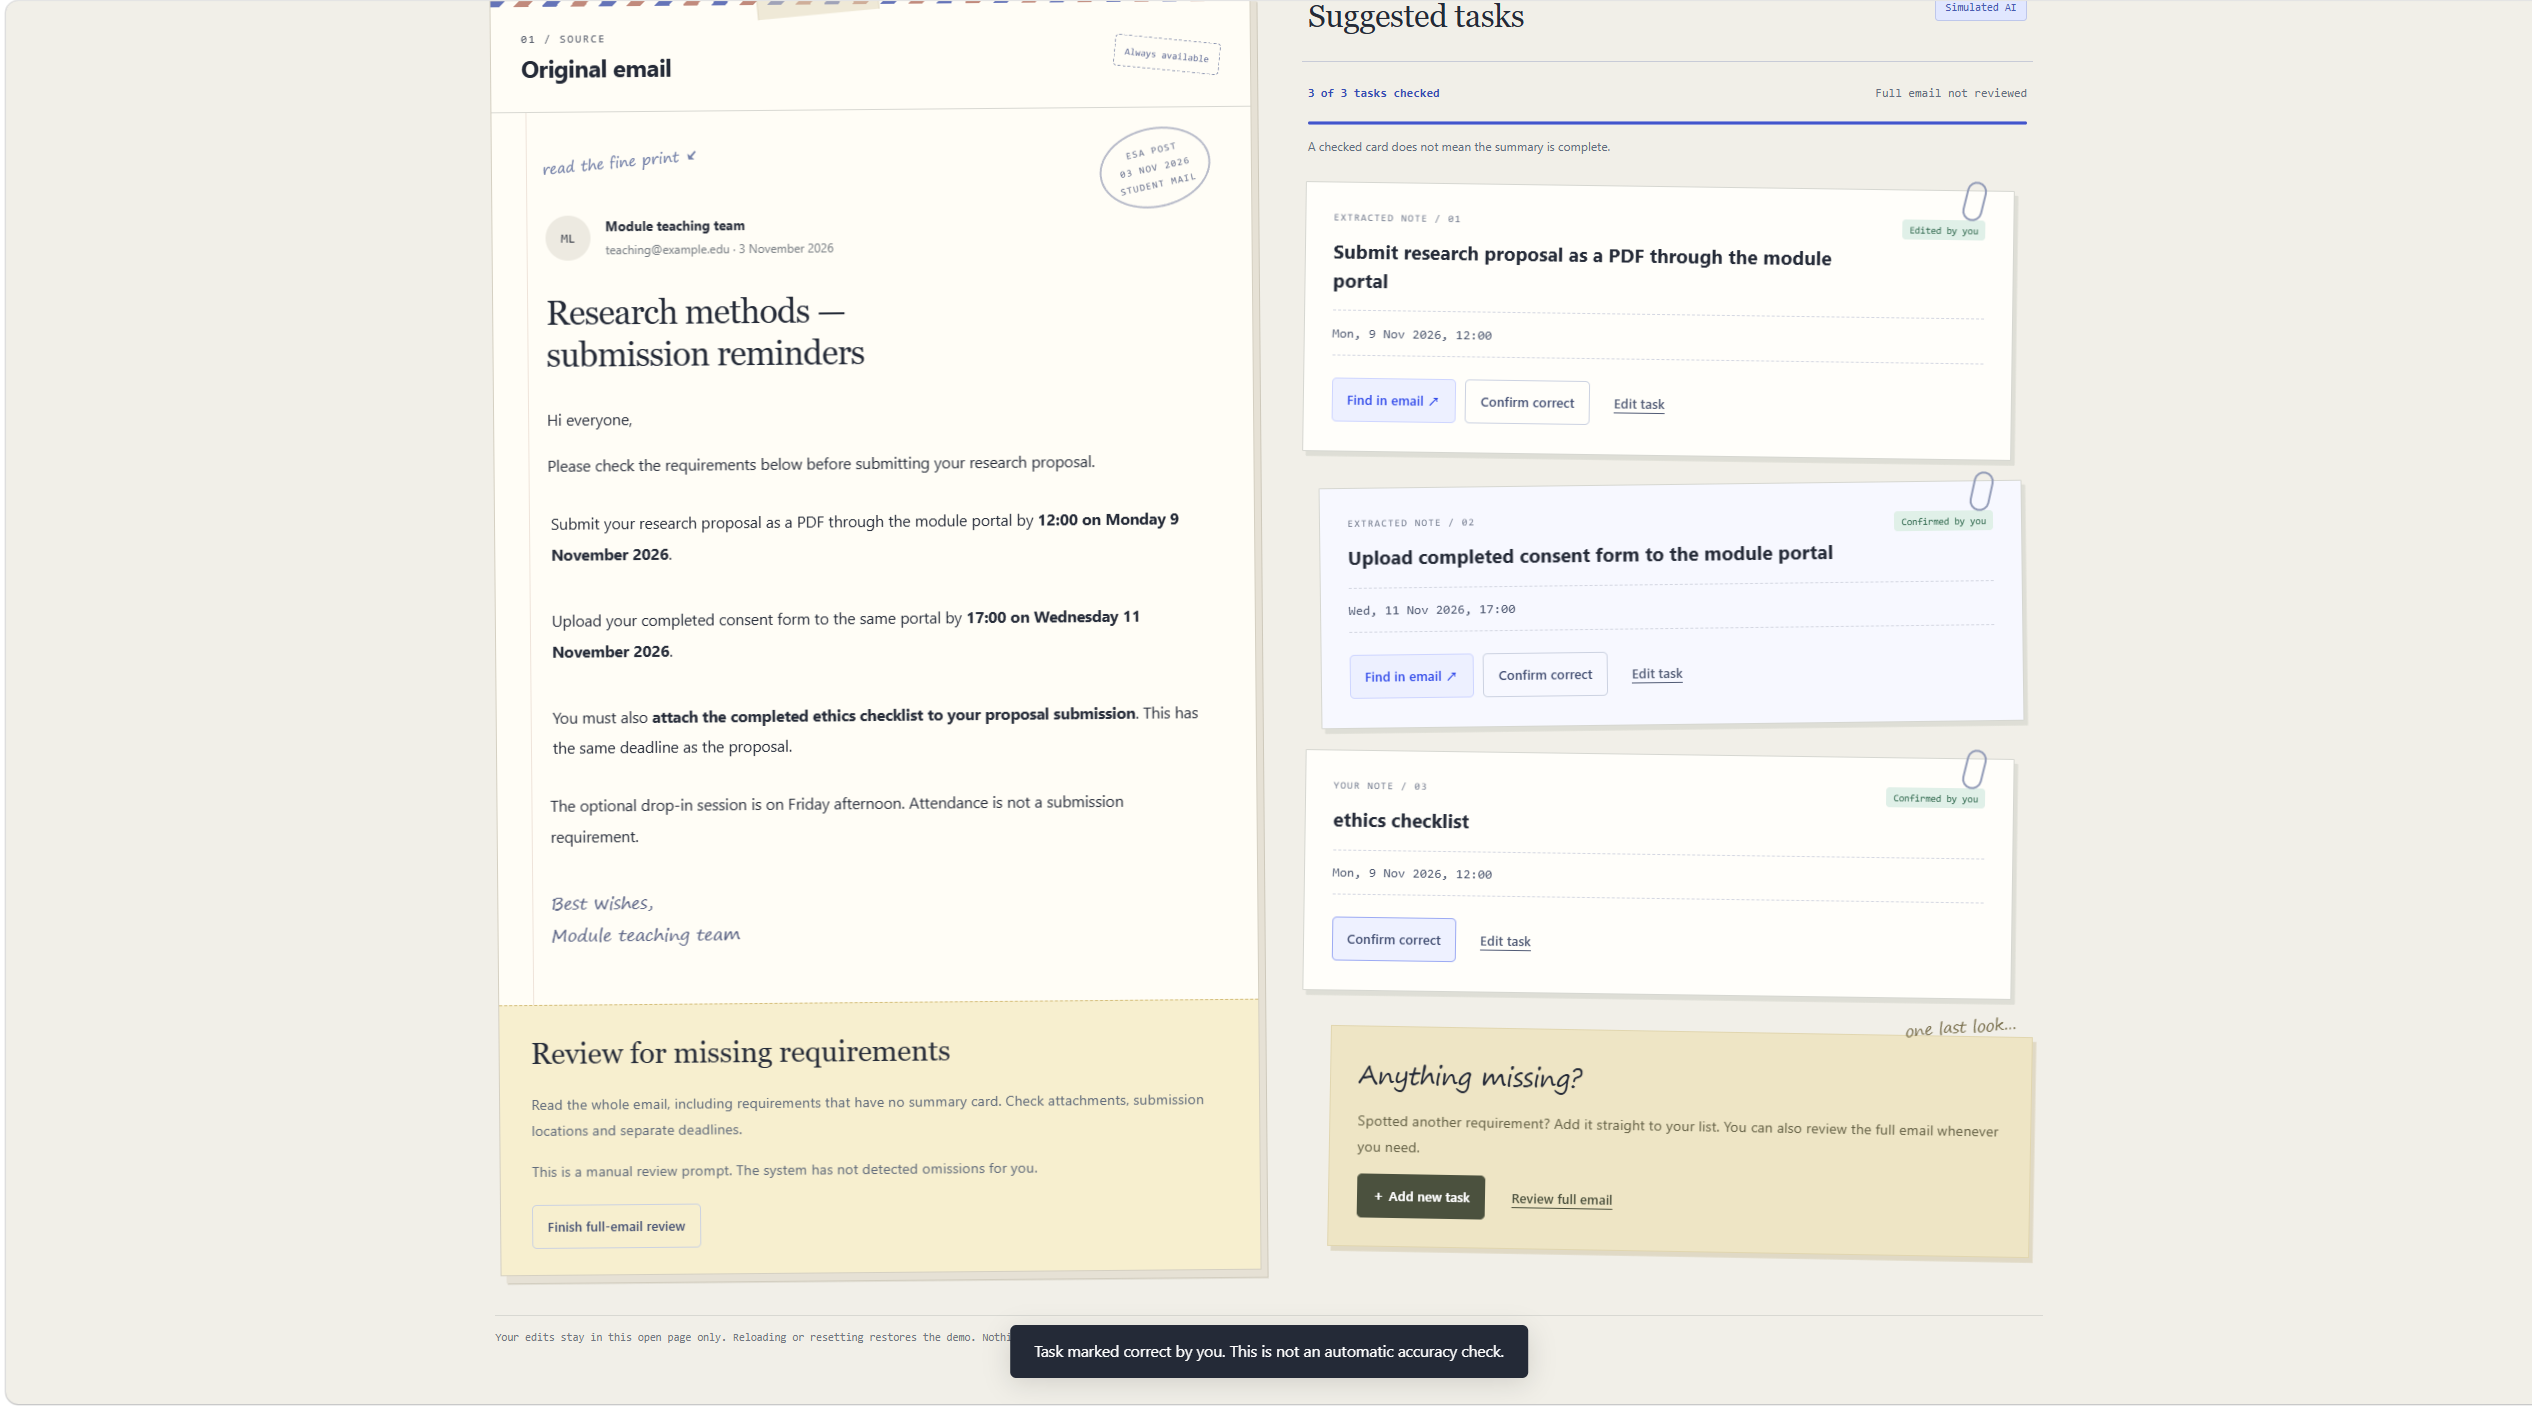
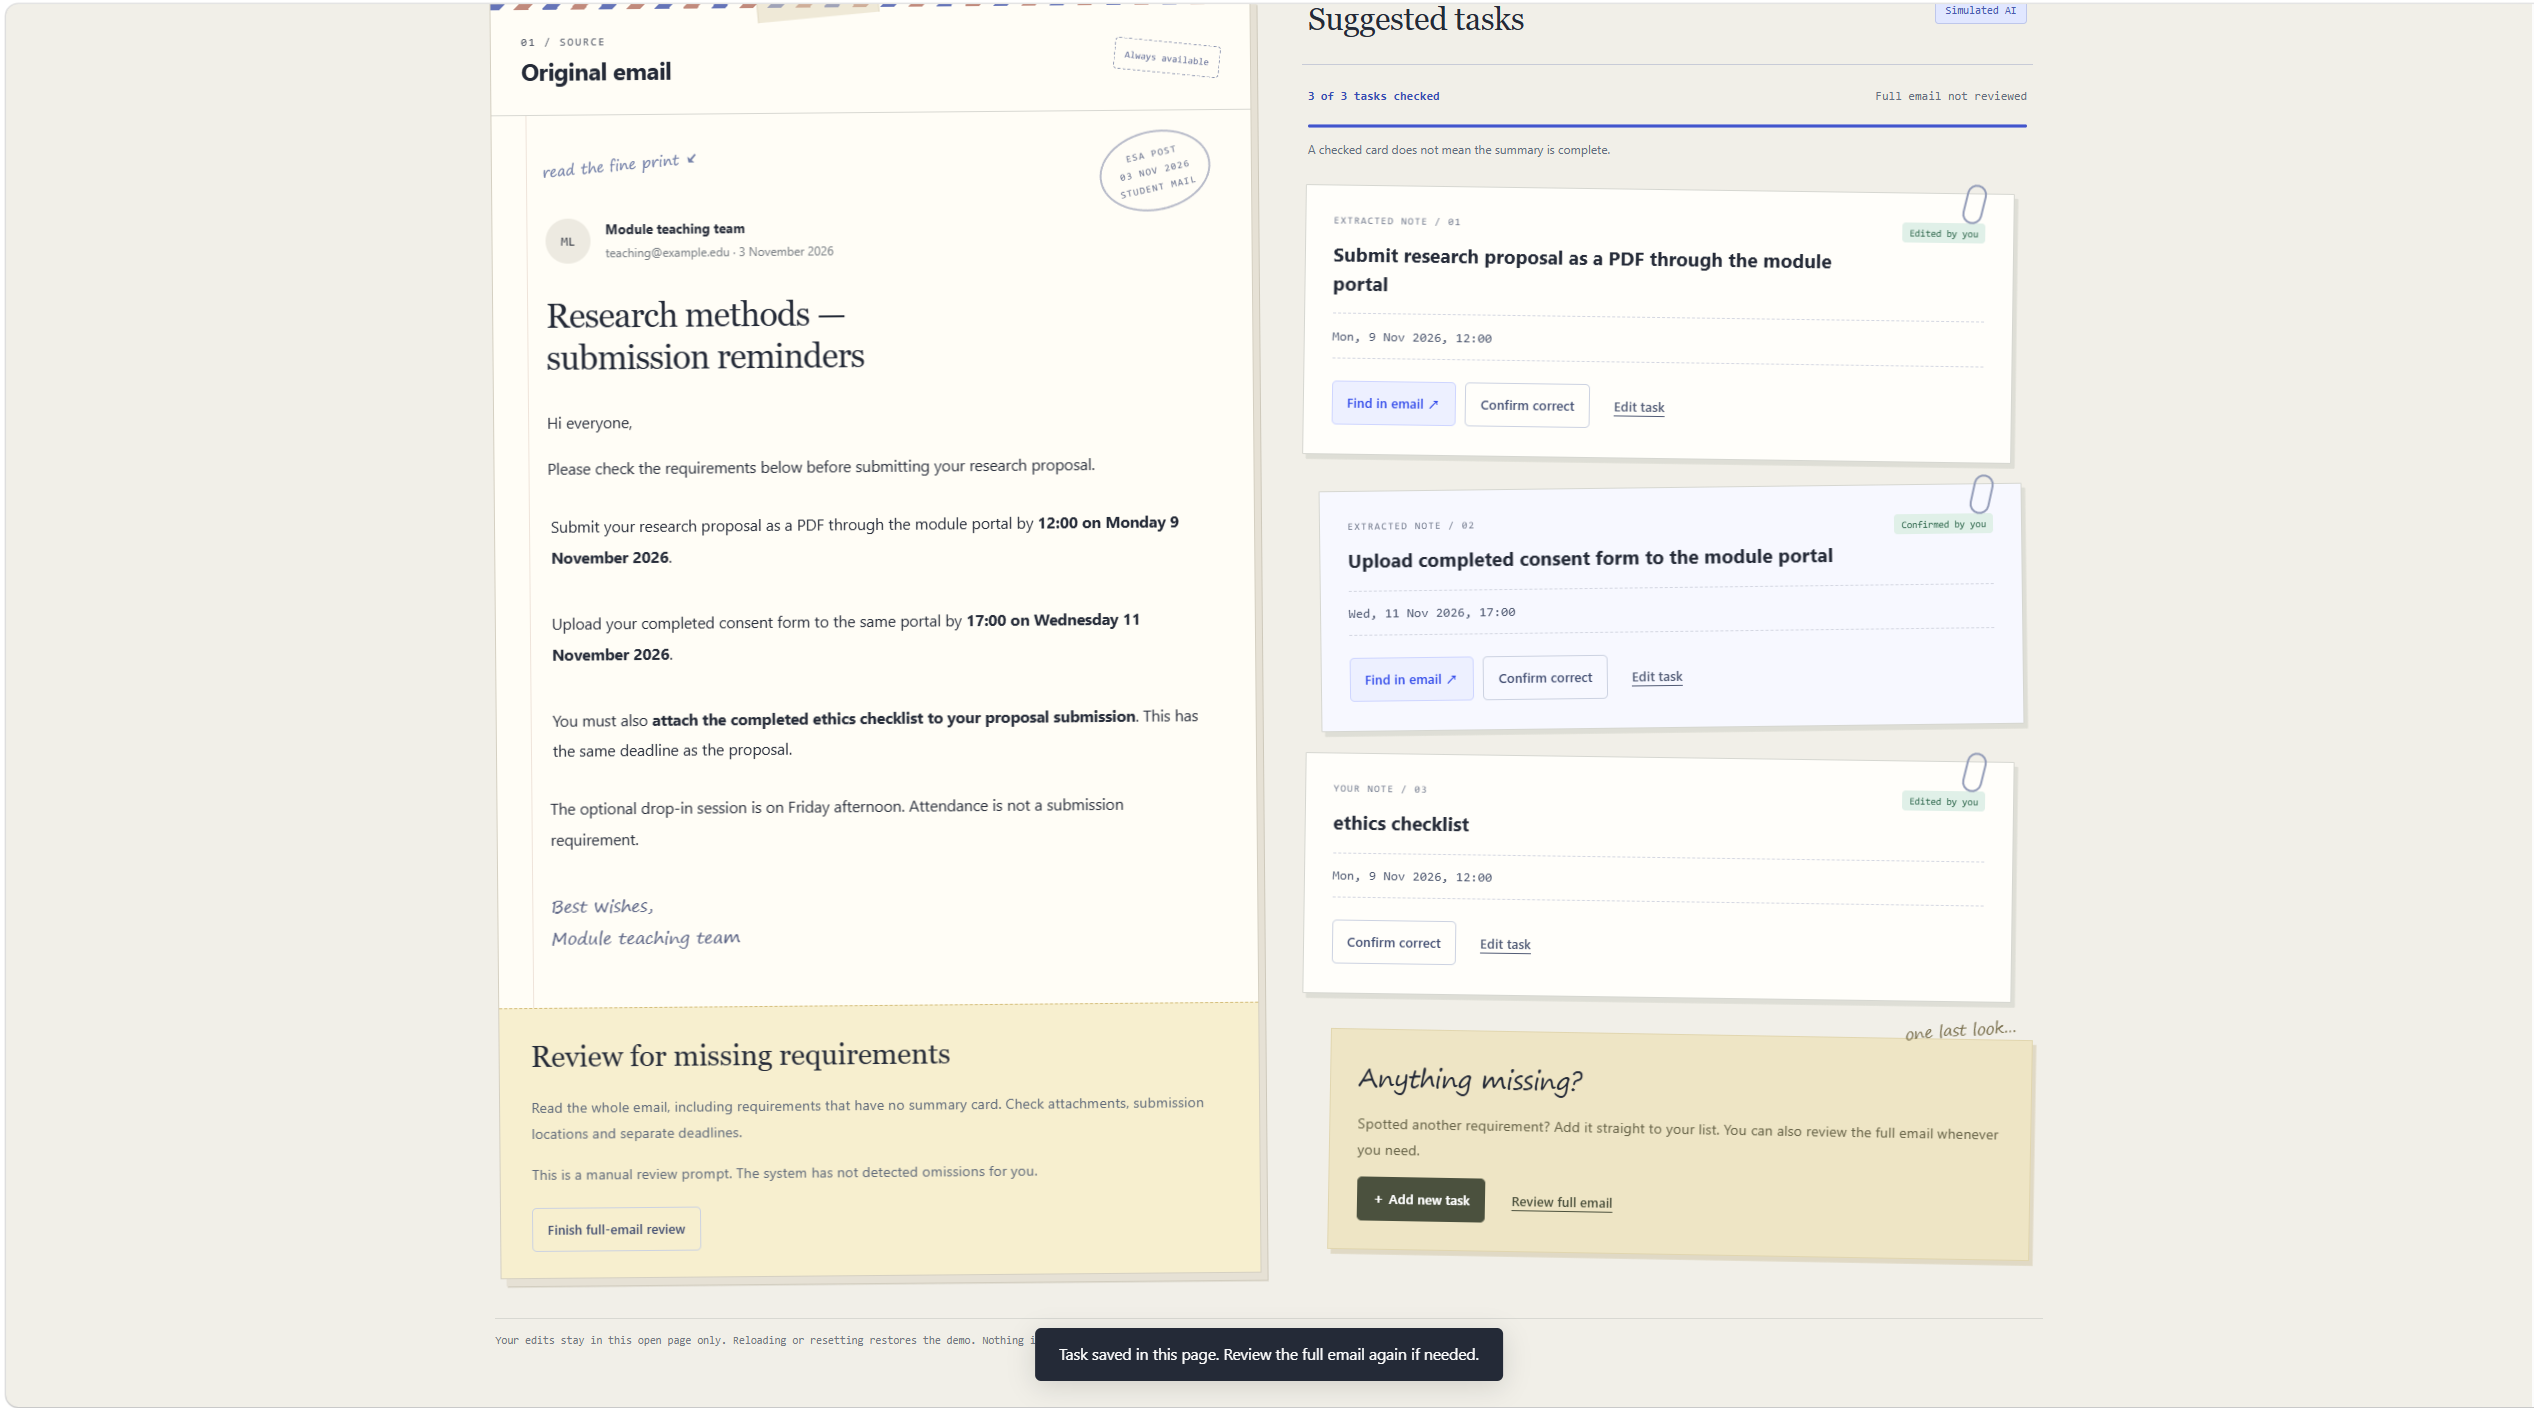
Replace Figure 4c screenshot and label edited-task state accurately

diff --git a/screenshot-checklist.md b/screenshot-checklist.md
@@ -1,8 +1,8 @@
 # ESA 操作截图清单 Interaction screenshot checklist
 
-Status: all ten student-supplied screenshots are stored in `assets/storyboards/` and embedded in the draft. Figure 4 needs one continuity check: panel 4c shows Confirmed by you, while panel 4d shows Added by you. Replacing 4c with a capture immediately after adding is recommended. A video is not required.
+Status: all ten student-supplied screenshots are stored in `assets/storyboards/` and embedded in the draft. The replacement panel 4c shows Edited by you, while panel 4d shows Added by you. A continuity check remains: capture 4c immediately after adding, or replace 4d with completion of the same edited-task run. A video is not required.
 
-状态：十张学生截图已全部收到、归档并插入草稿。图 4 仍有一处连续性待核对：4c 为 Confirmed by you，4d 为 Added by you。建议用刚新增保存后、尚未点击确认的截图替换 4c。无需视频。
+状态：十张学生截图已全部收到、归档并插入草稿。替换后的 4c 为 Edited by you，4d 为 Added by you，仍需核对连续性。可截取刚新增后的 4c，或在这次编辑后直接完成复核并替换 4d。无需视频。
 
 ## 图 2 纠正错误日期 Figure 2 Correct an inaccurate deadline
 
@@ -36,7 +36,7 @@ Caption: Confirmation records the student's judgement, not automated verificatio
 
 ## 图 4 补充遗漏事项 Figure 4 Add an omitted requirement
 
-Received / 已收到：四张原图已保存。4c 实际含额外确认操作，与原计划中“刚新增”的状态不同；报告已据实标注，没有修改截图。
+Received / 已收到：四张截图已保存，4c 已按学生要求替换为新图。新图包含编辑操作，与原计划中“刚新增”的状态不同；报告已据实标注，没有修改截图内容。
 
 7. `07-manual-review.png`: select Review full email. Include the ethics-checklist sentence and manual review guidance. The system does not flag this specific omission.
    中文：点击 Review full email，截取 ethics checklist 原文要求和人工复核引导。系统不会自动标记这项遗漏。

diff --git a/README.md b/README.md
@@ -53,7 +53,7 @@ Codex generated the initial HTML, CSS, JavaScript, and documentation from the st
 
 ## Submission
 
-All ten student-supplied screenshots are available in `assets/storyboards/` and embedded in the report draft. They show deadline correction, consent-form confirmation and manual addition followed by full-email review. Figure 4 has a documented continuity difference: the checklist is Confirmed by you in panel 4c and Added by you in 4d. These images document demonstration states, not an independent user study or complete browser test.
+All ten student-supplied screenshots are available in `assets/storyboards/` and embedded in the report draft. They show deadline correction, consent-form confirmation and manual addition followed by full-email review. Figure 4 has a documented continuity difference: the checklist is Edited by you in panel 4c and Added by you in 4d. These images document demonstration states, not an independent user study or complete browser test.
 
 Current prototype draft snapshot: [db98b8e](https://github.com/dawsen1208/esa-email-summary-assistant/commit/db98b8ee3a69b31ad9111f97e773b48f627aabca). This is an uploaded development snapshot, not the final submission.
 

diff --git a/A2-report-draft.md b/A2-report-draft.md
@@ -129,15 +129,15 @@ Confirmation records the student's judgement.
 
 ![Figure 4b Student enters ethics checklist and 9 November 2026 at 12:00 in the Add new task form](assets/storyboards/08-add-checklist.png)
 
-**4c Manually added task after user confirmation**
+**4c Manually added task after editing**
 
-![Figure 4c Ethics checklist appears as the third task, with Confirmed by you and 3 of 3 tasks checked](assets/storyboards/09-checklist-added.png)
+![Figure 4c Ethics checklist appears as the third task, with Edited by you and 3 of 3 tasks checked](assets/storyboards/09-checklist-added.png)
 
 **4d Full-email review acknowledged**
 
 ![Figure 4d Completion message and Full email reviewed by you; guidance hidden; checklist labelled Added by you](assets/storyboards/10-review-finished.png)
 
-Panels 4c and 4d show different checklist confirmation states, not an uninterrupted transition.
+Panels 4c and 4d show different checklist states: Edited by you and Added by you. They are not an uninterrupted transition.
 
 The student finds the omission; ESA records the addition and acknowledgement.
 

diff --git a/development-feedback.md b/development-feedback.md
@@ -1,5 +1,9 @@
 # ESA 学生试用反馈与修改记录
 
+## 图 4c 替换
+
+按学生要求用新截图替换 09-checklist-added.png。新图显示 Edited by you；报告图注已更新。图 4d 仍为 Added by you，因此暂不将两张图表述为连续状态转换。此前关于旧图 Confirmed by you 的记录保留为历史说明。
+
 ## 图 4 操作截图证据
 
 学生提供四张截图，展示人工全文复核、填写 ethics checklist 及 9 November 2026 12:00、第三张任务卡片，以及完成全文复核后指导卡片收起与原完成提示。第三张 checklist 显示 Confirmed by you，第四张显示 Added by you；两图不能作为未中断的状态转换证据。原图均保留，报告按实际状态标注，并建议补一张刚新增后尚未确认的 4c。未将这些演示写作遗漏检测或独立用户实验。
